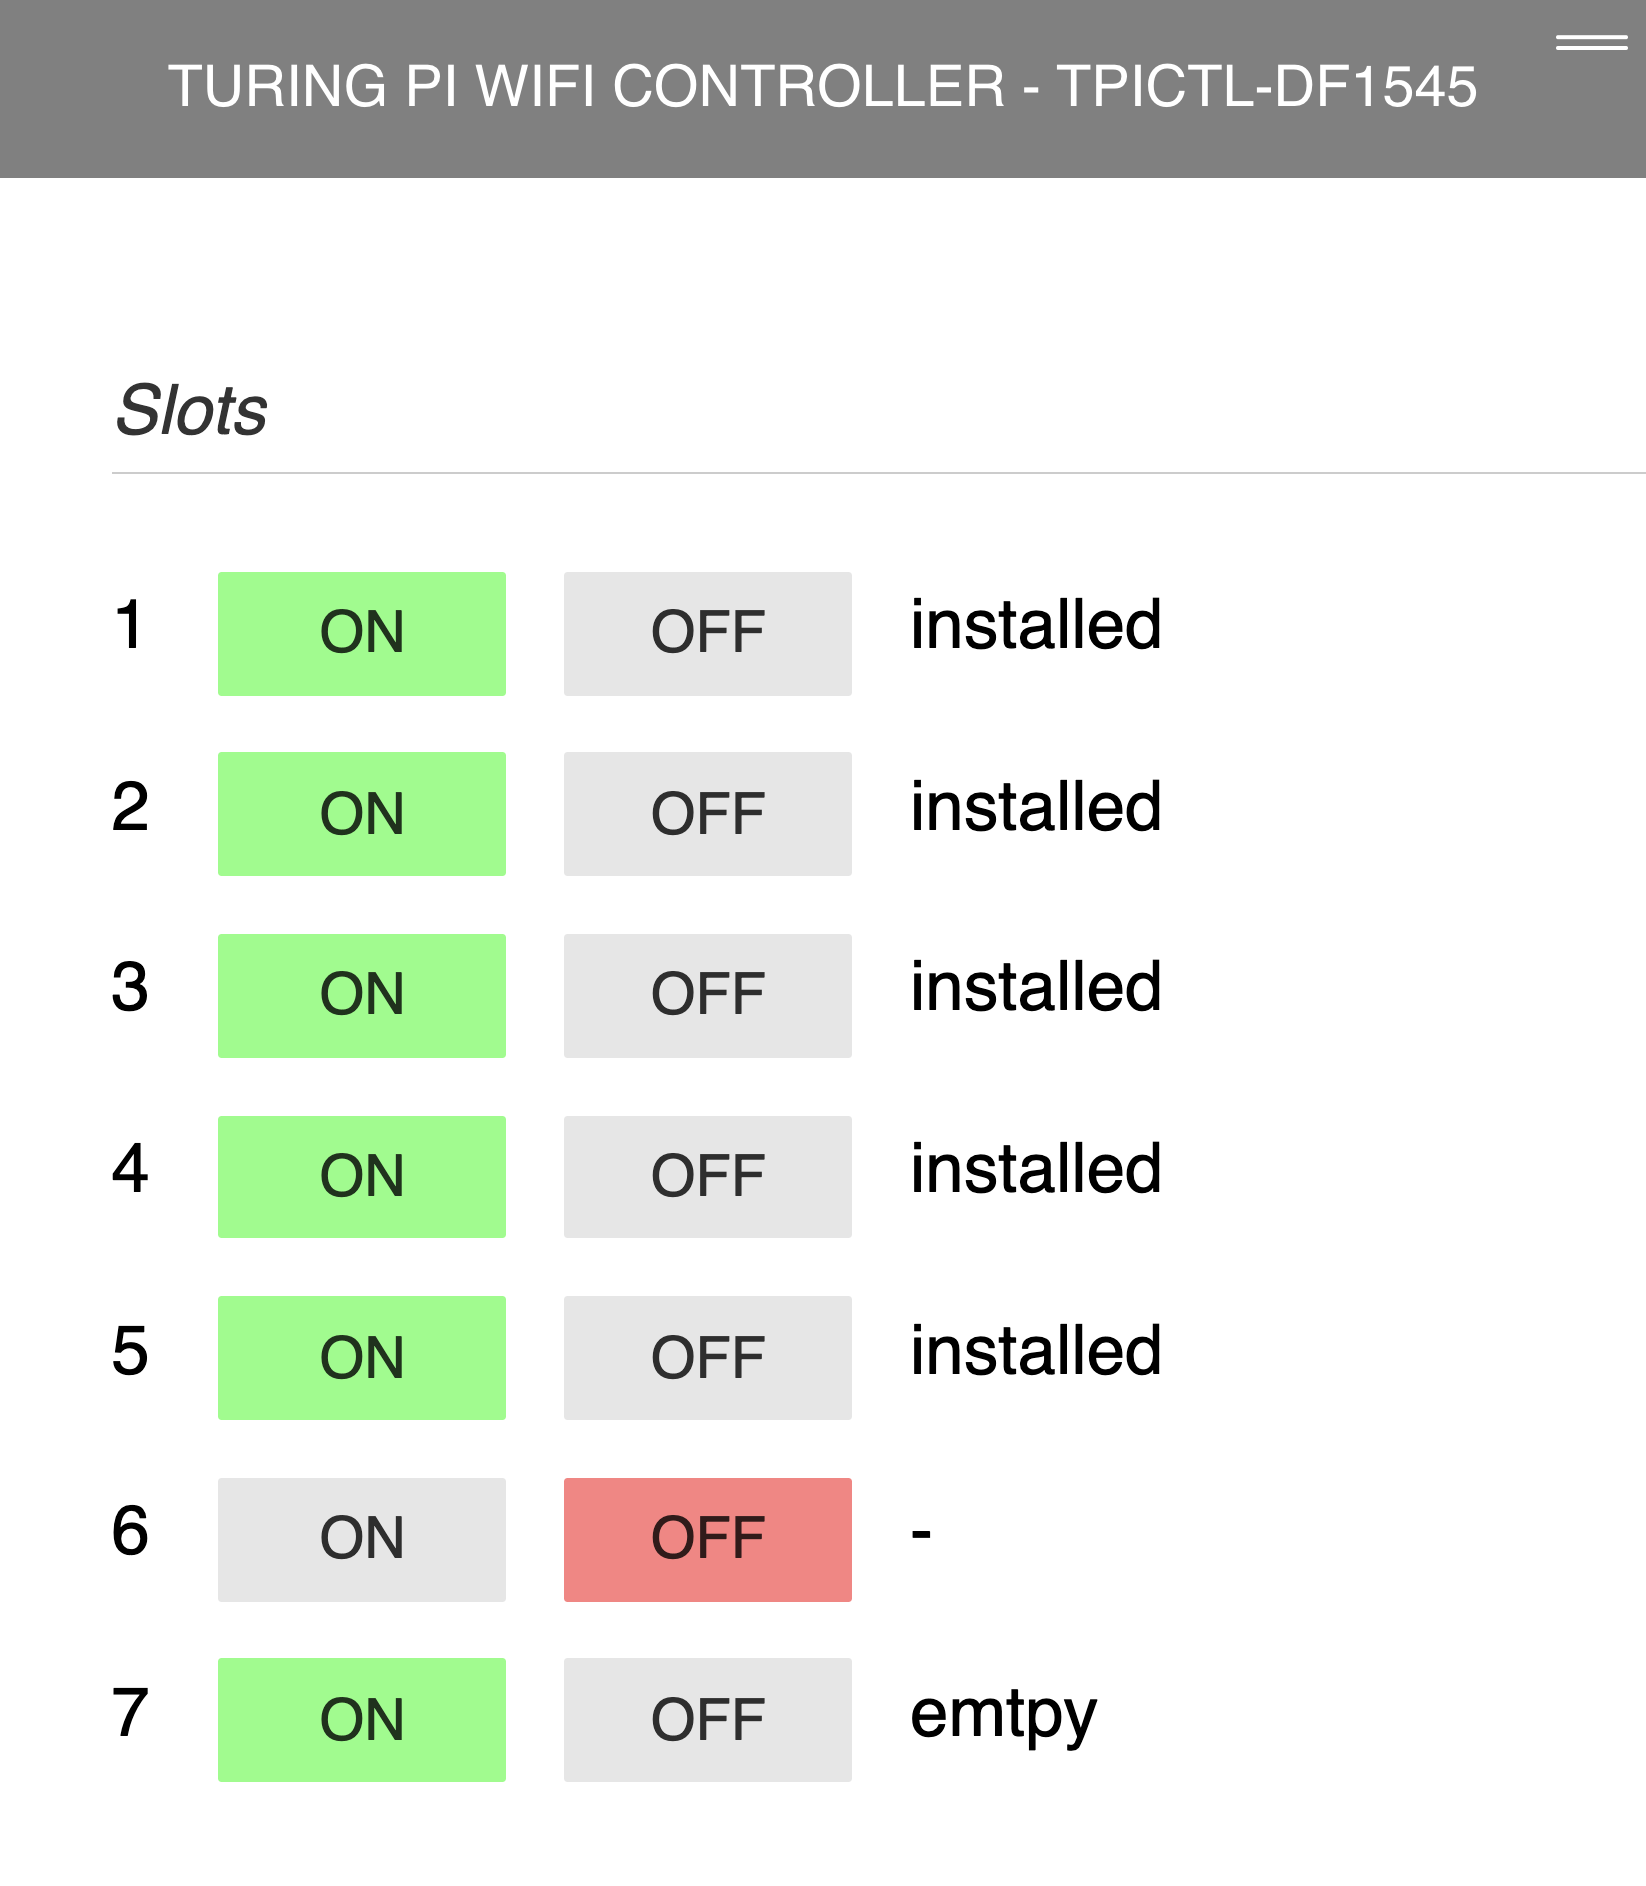
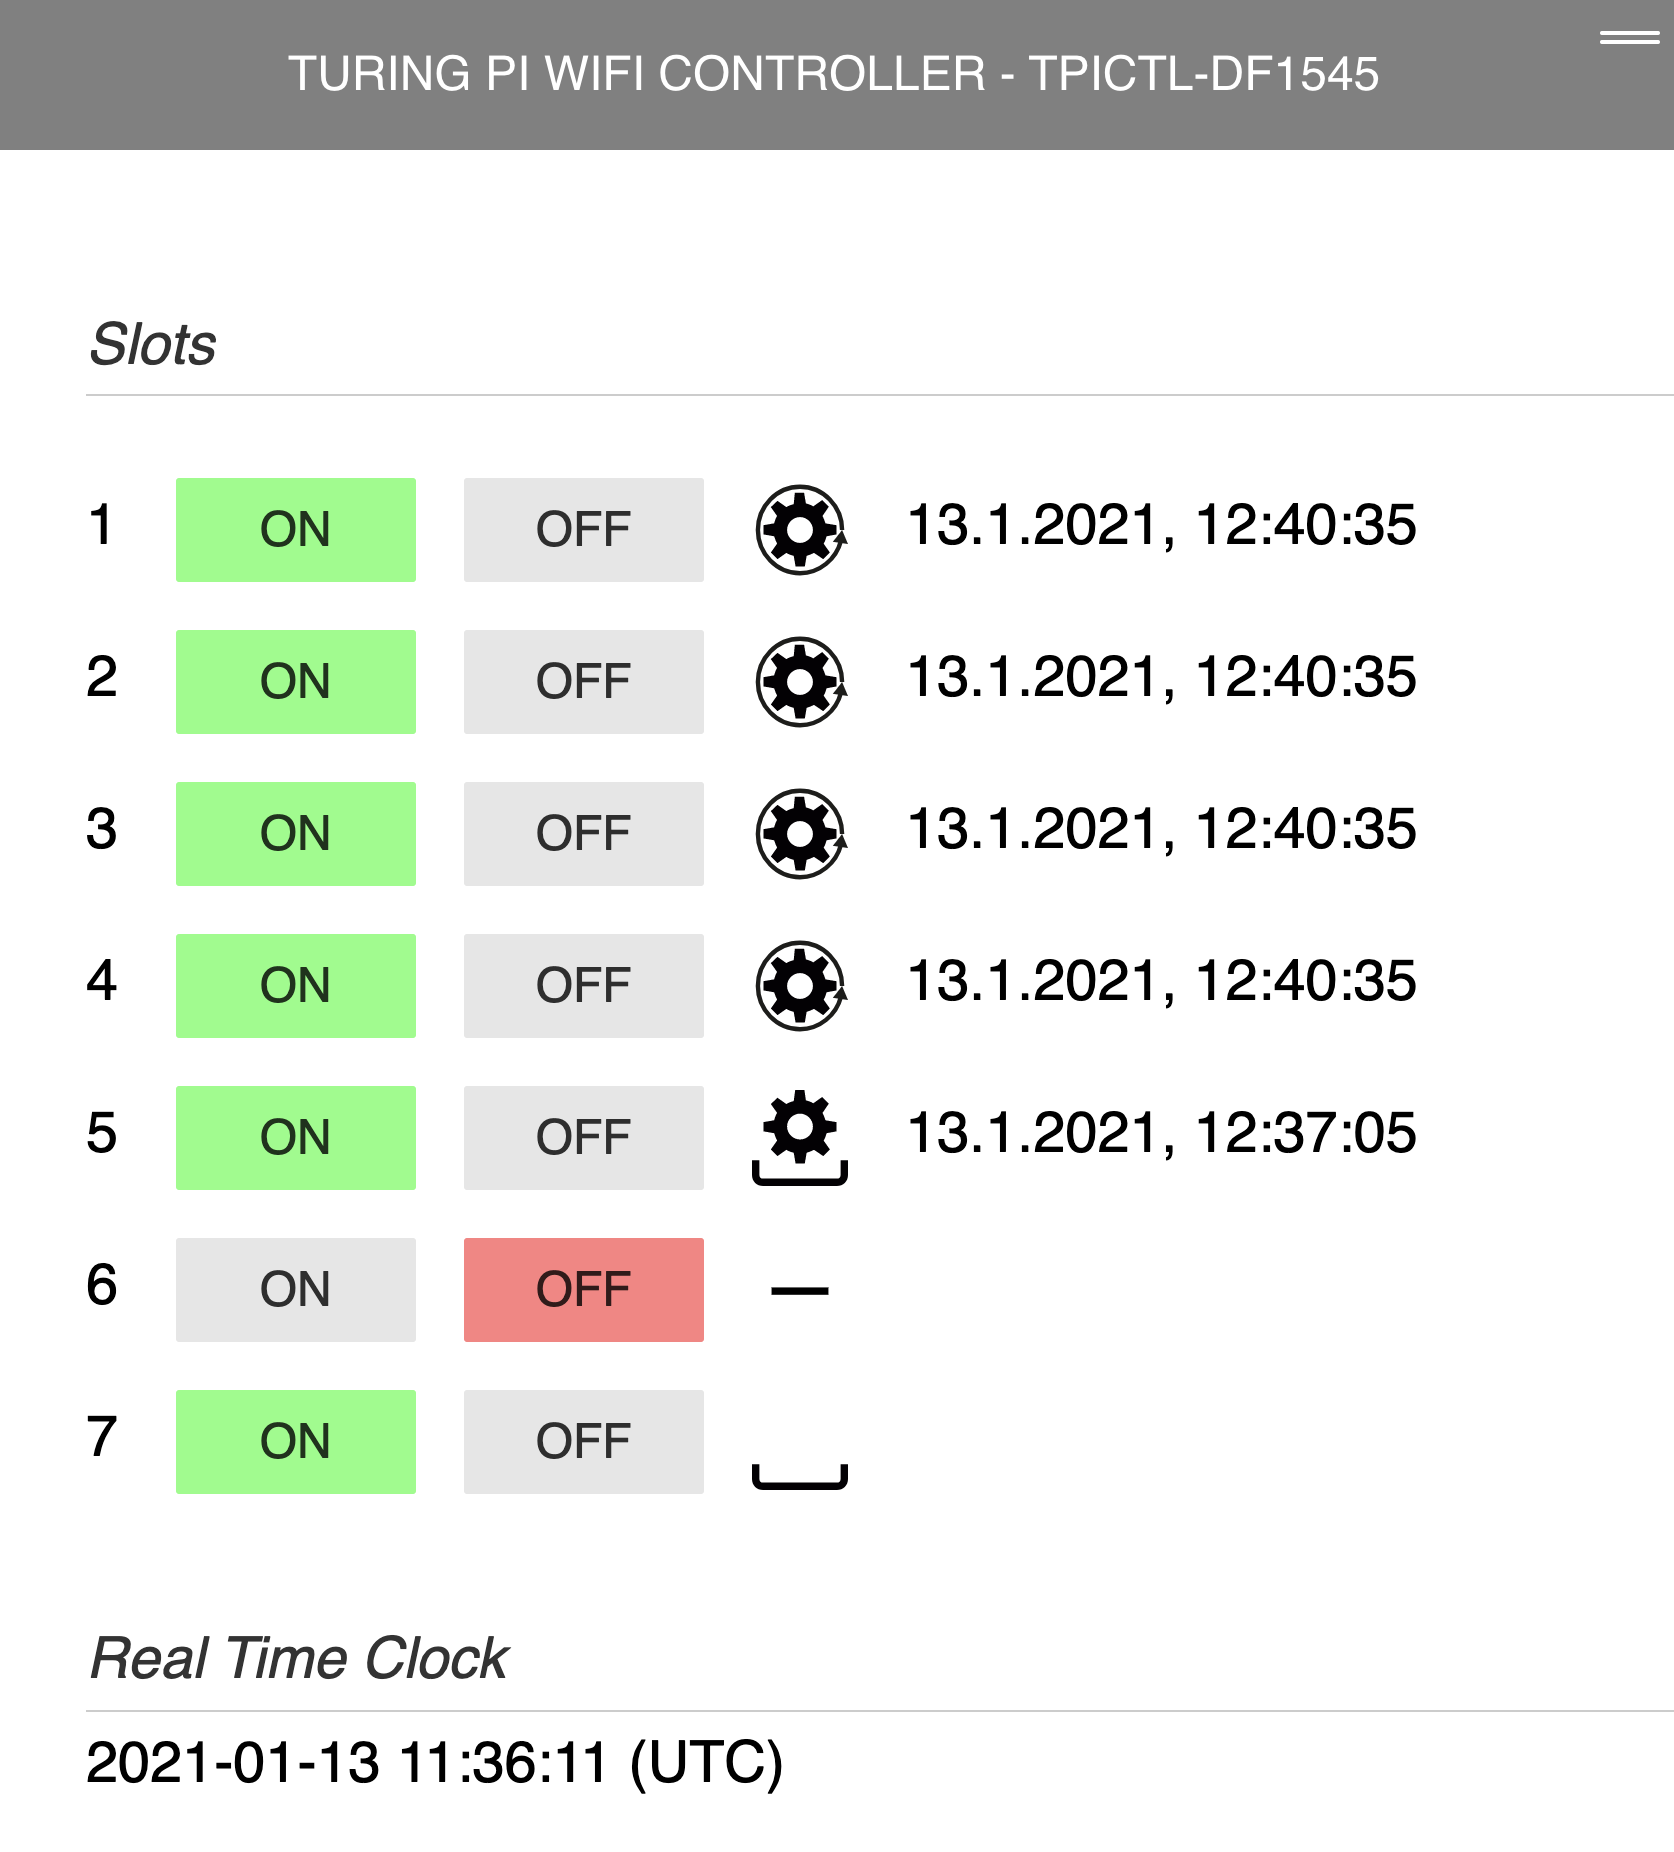
new root page image and description

diff --git a/docs/README.md b/docs/README.md
@@ -1,6 +1,12 @@
 # Documentation
 
 ## Root page
+
+- slot 1-4 are ON and running a pingable OS.
+- slot 5 is ON and a module is installed but it was last seen at 12:37.
+- slot 6 is OFF
+- slot 7 is ON but no compute module is installed
+
 ![root page](./img/img01.png)
 
 ## Setup
